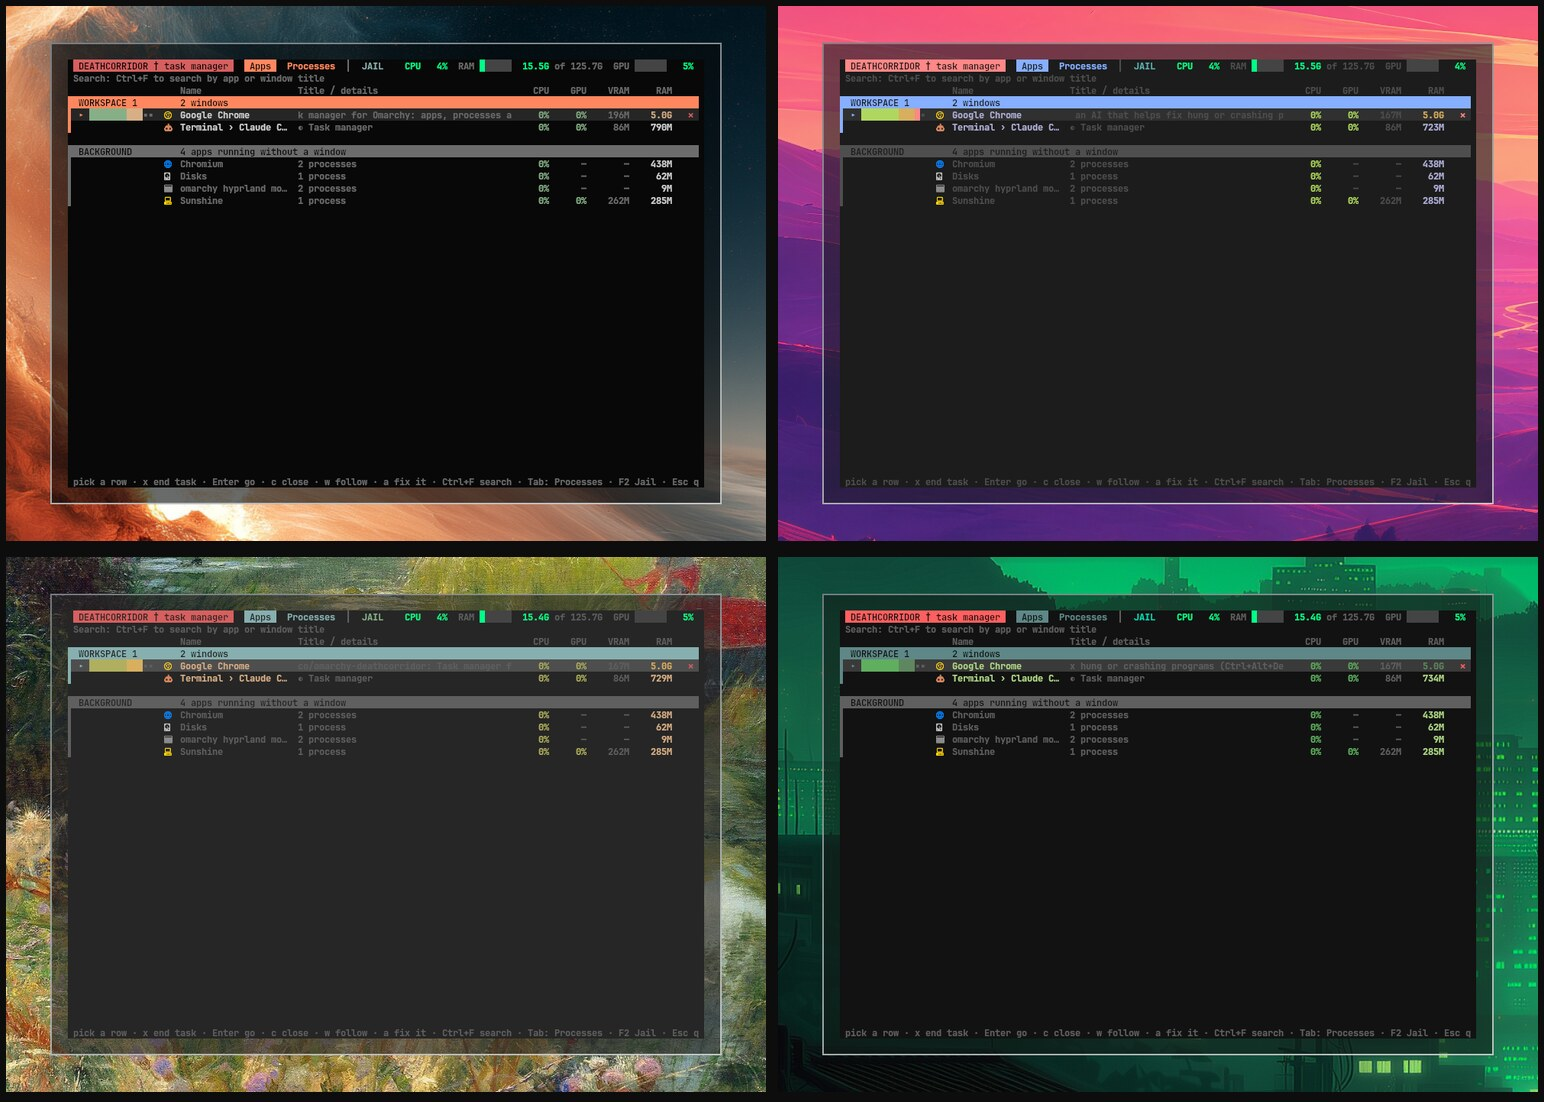
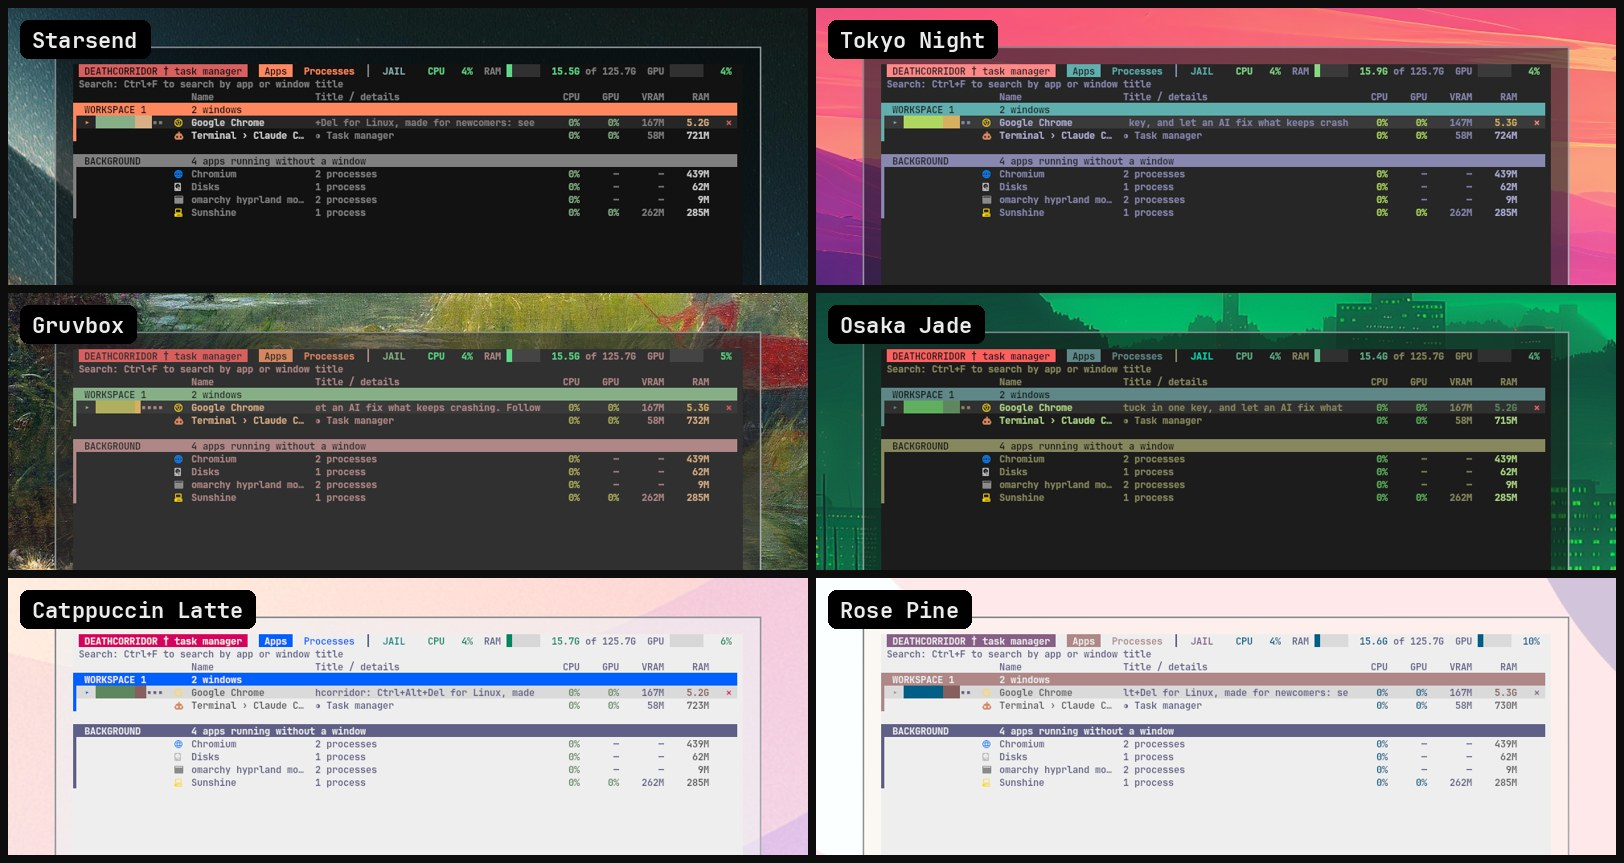
Palette: contrast-safe colors, wallpaper-aware accent and workspace colors, faint ground tint; light themes readable

diff --git a/README.md b/README.md
@@ -23,9 +23,15 @@ It is a terminal app (floating window) with three places:
 
 ### It follows your theme
 
-The same screen on four Omarchy themes (Starsend, Tokyo Night, Gruvbox, Osaka Jade). The colors come from the active theme; nothing is hard-coded to one look.
+Six Omarchy themes, dark and light, same screen. The colors are not hard-coded to one look:
 
-![Four Omarchy themes](docs/themes.jpg)
+- every color is checked for contrast against the theme's background, so light themes stay readable;
+- the accent and the workspace colors are picked from the theme's palette by how much of your **wallpaper** each one covers;
+- the background takes a faint tint (about 7%) of the wallpaper's dominant color. Set `DEATHCORRIDOR_TINT=0` to turn that off.
+
+(Reading the wallpaper needs Pillow or ImageMagick; without them it falls back to the theme alone.)
+
+![Six Omarchy themes](docs/themes.jpg)
 
 ## Install
 
